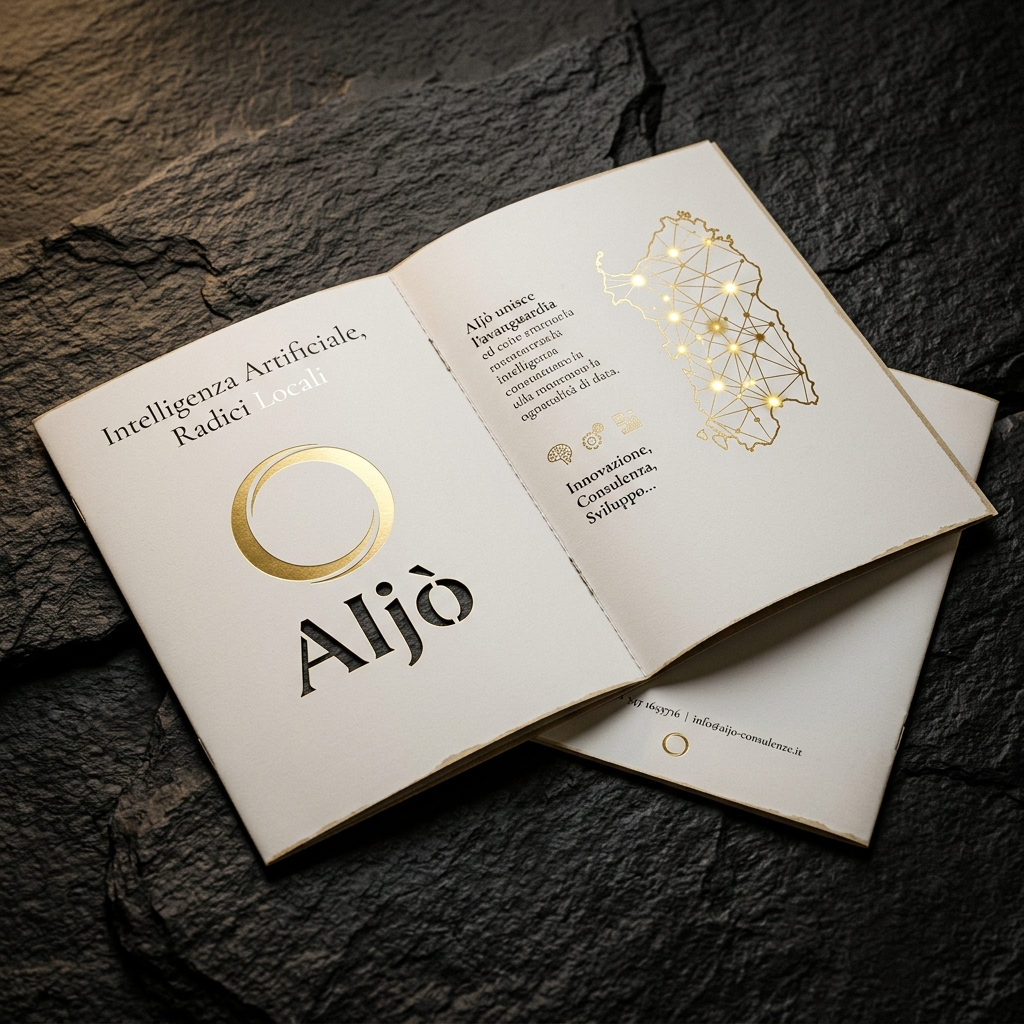
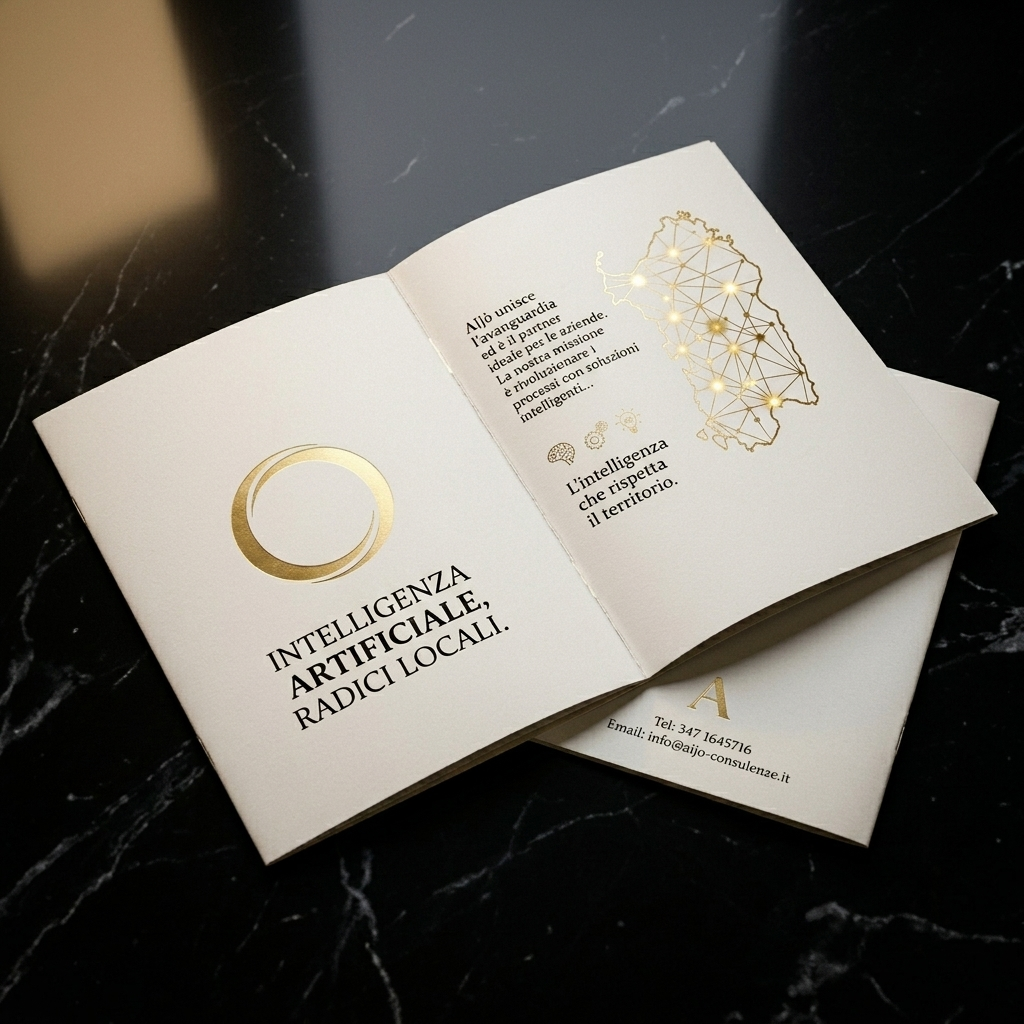
Brochure AIjò: aggiornato sfondo nero profondo per abbinamento premium al mockup

diff --git a/assets/rebranding/brochure_4_pagine_aijo.md b/assets/rebranding/brochure_4_pagine_aijo.md
@@ -2,7 +2,7 @@
 
 Questo documento costituisce la specifica tecnica e il copy definitivo per la brochure di presentazione di **AIjò Consulenze**, strutturata su 4 pagine A5 rilegate (formato chiuso A5 148x210 mm, formato aperto A4 297x210 mm). 
 
-Il design segue la linea visiva concordata: **Luxury Dark**, con testi in bianco e oro su sfondo grigio scuro ardesia, impreziosito dal nuovo logo ufficiale **AIjò** con l'intaglio passante sulla banda inferiore.
+Il design segue la linea visiva concordata: **Luxury Dark**, con testi in bianco e oro su sfondo nero assoluto profondo (Luxury Black), impreziosito dal nuovo logo ufficiale **AIjò** con l'intaglio passante sulla banda inferiore.
 
 ---
 
